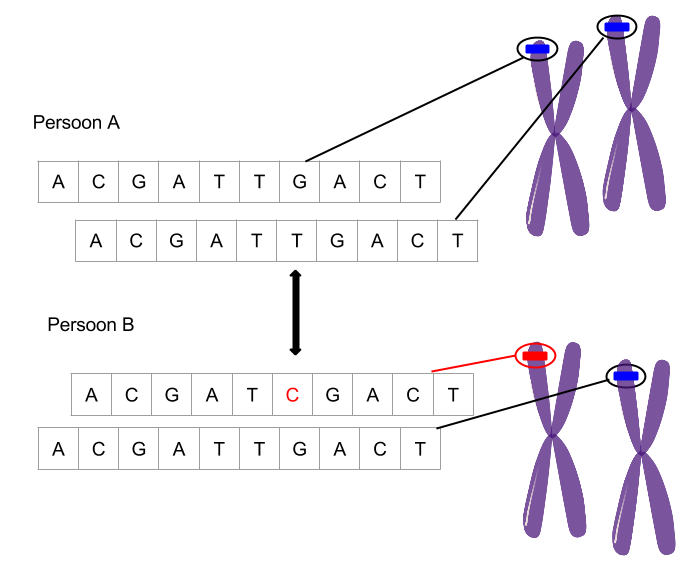
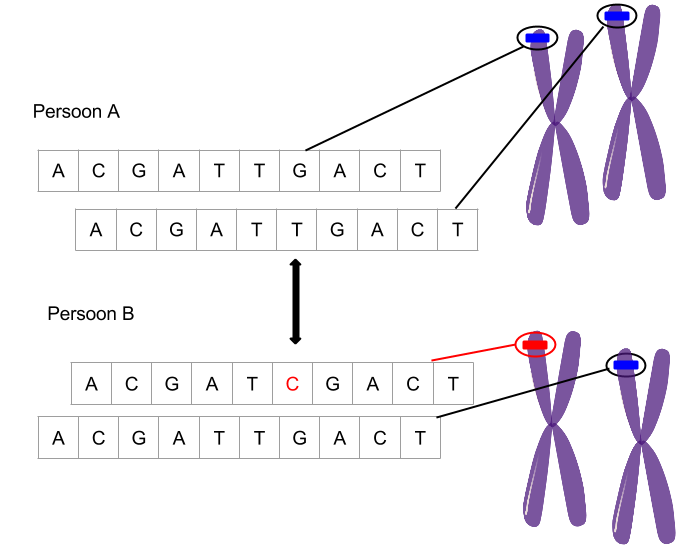
vb-vragen genoomanalyse

diff --git a/dna_intro.tex b/dna_intro.tex
@@ -3,6 +3,9 @@
 
 Omdat deze thesis binnen het vakgebied van de genoomanalyse ligt, volgt in dit hoofdstuk een beknopte inleiding in de wereld van DNA, genomen, genen en aanverwanten, met speciale aandacht voor het DNA van de mens.\\
 
+\section{Biologische achtergrond}
+\label{bio_intro}
+
 Desoxyribonucle\"inezuur, kortweg \textbf{DNA}, is de chemische stof die als belangrijkste drager van erfelijke informatie dient in alle levende wezens. DNA bestaat uit twee spiraalvormige, rond elkaar gewikkelde strengen, ook gekend als een dubbele helix. Die twee strengen zijn elk lange ketens van chemische bouwblokken, de nucleotiden, die op hun beurt elk opgebouwd zijn uit 3 delen: een fosfaatgroep, een suikergroep en \'e\'en van 4 mogelijke \textbf{nucleotidebasen}. De 4 nucleotidebasen zijn adenine (A), thymine (T), guanine (G) en cytosine (C). De twee strengen zijn aan elkaar gekoppeld door paren van die basen. Er komen slechts 2 verschillende baseparen voor: AT en GC \cite{genome_gov} \cite{nature_scitable}.\\
 
 Het \textbf{genoom} duidt op de volledige set DNA van een organisme. Het menselijk genoom bestaat uit 3 miljard baseparen. Het grootste deel van DNA bevindt zich in lichaamscellen in de vorm van \textbf{chromosomen}. Menselijke cellen bijvoorbeeld tellen 46 chromosomen, die in 23 paren voorkomen.\\
@@ -16,16 +19,31 @@ Een laatste essentieel biologisch concept is een \textbf{variant} of \textit{sin
 \item Homozygoot voor het alternatief allel zijn, wanneer het genotype bestaat uit 2x het alternatieve allel.
 \item Heterozygoot zijn, wanneer het genotype bestaat uit 1x het referentie-allel en 1x het alternatieve allel.
 \end{itemize}
-Variants zijn zeer belangrijk voor analyse van erfelijke aandoeningen: een nauwe overerving van zowel bepaalde variants als een bepaald fenotype kan de mogelijke locatie van een gen dat een aandoening veroorzaakt reduceren tot een regio op een chromosoom van slechts enkele gensequenties. Die kunnen dan nader onderzocht worden op hun structuur en functie om te bepalen welk gen verantwoordelijk is voor het gemuteerde fenotype. Relevante vragen voor biologen zijn dus welke variants voorkomen bij alle (of veel) individuen met eenzelfde fenotype, en nadien welke variants allemaal in dezelfde regio liggen op een chromosoom. Zoals later (zie \ref{gemini_beschrijving}) uitgebreid aan bod komt, biedt GEMINI ook queries om dit soort vragen te beantwoorden.\\
-
-\begin{figure}[!h]
-\includegraphics[width=\textwidth,keepaspectratio]{chrom_schema}
+\begin{figure}[!hb]
+\includegraphics[scale=0.5,keepaspectratio]{chrom_schema}
 \caption{Een sequentie uit het DNA van 2 personen. De sequentie ligt op dezelfde locatie op het chromosoom bij beide personen, maar verschilt 1 nucleotide tussen de twee personen. De sequentie is dus een \textit{single nucleotide polymorphism} of \textit{variant}. Beide personen hebben ook twee allelen voor de variant. Persoon A is homozygoot, persoon B heterozygoot \cite{chrom_clipart}.}
 \label{chrom_schema}
 \end{figure}
+Variants zijn zeer belangrijk voor analyse van erfelijke aandoeningen: een nauwe overerving van zowel bepaalde variants als een bepaald fenotype kan de mogelijke locatie van een gen dat een aandoening veroorzaakt reduceren tot een regio op een chromosoom van slechts enkele gensequenties. Die kunnen dan nader onderzocht worden op hun structuur en functie om te bepalen welk gen verantwoordelijk is voor het gemuteerde fenotype. Relevante vragen voor biologen zijn dus welke variants voorkomen bij alle (of veel) individuen met eenzelfde fenotype, en nadien welke variants allemaal in dezelfde regio liggen op een chromosoom. Zoals later (zie \ref{gemini_beschrijving}) uitgebreid aan bod komt, biedt GEMINI ook queries om dit soort vragen te beantwoorden.\\
+Figuur \ref{chrom_schema} toont een voorbeeld van de bovenstaande concepten.\\
 
-\textbf{DNA sequencing} is het bepalen van de exacte sequentie van nucleotidebasen in een streng DNA. De vandaag meest gebruikte sequencingmethode genereert reads van 125 opeenvolgende nucleotiden, en miljarden reads tegelijkertijd. Om de segmenten horende in \'e\'en langer stuk DNA aan elkaar te kunnen linken, is het nodig vele overlappende segmenten te lezen, die vervolgens met elkaar gealigneerd worden. Elke nucleotide moet dus meerdere keren gelezen worden om een goede accuraatheid van het uiteindelijke resultaat te bekomen. De \textbf{depth} van een nucleotide, of bij uitbreiding een groter stuk DNA, is het aantal keren dat een nucleotide gelezen werd tijdens het sequencingproces. De \textbf{coverage} is de gemiddelde depth over de hele DNA-streng die gesequenced werd en dus een maat voor de resolutie en accuraatheid van het sequencingproces. De uiteindelijke sequencedata worden vaak opgeslagen in SAM-files (of BAM, het binaire equivalent) en het is op basis hiervan dat \textbf{variant calling} gebeurt: het bepalen welk genotype een proefpersoon precies heeft voor een variant.\\
+\section{DNA sequencing}
+
+\textbf{DNA sequencing} is het bepalen van de exacte sequentie van nucleotidebasen in een streng DNA. De vandaag meest gebruikte sequencingmethode genereert reads van 125 opeenvolgende nucleotiden, en miljarden reads tegelijkertijd. Om de segmenten horende in \'e\'en langer stuk DNA aan elkaar te kunnen linken, is het nodig vele overlappende segmenten te lezen, die vervolgens met elkaar gealigneerd worden. Elke nucleotide moet dus meerdere keren gelezen worden om een goede accuraatheid van het uiteindelijke resultaat te bekomen. De \textbf{depth} van een nucleotide, of bij uitbreiding een groter stuk DNA, is het aantal keren dat een nucleotide gelezen werd tijdens het sequencingproces. De \textbf{coverage} is de gemiddelde depth over de hele DNA-streng die gesequenced werd en dus een maat voor de resolutie en nauwkeurigheid van het sequencingproces. De uiteindelijke sequencedata worden vaak opgeslagen in SAM-files (of BAM, het binaire equivalent) en het is op basis hiervan dat \textbf{variant calling} gebeurt: het bepalen welk genotype een proefpersoon precies heeft voor een variant.\\
 De resultaten van het variant-callingproces worden opgeslagen in \textbf{VCF}-bestanden (Variant Call Format). Het VCF-formaat bevat naast meta-informatie een lijn voor elke geobserveerde variant, met daarin optioneel informatie over het genotype van \'e\'en of meerdere proefpersonen.\\
-In onderzoek naar het DNA van proefpersonen is ook nog andere informatie van tel dan enkel hun genotypes: gegevens als het geslacht of fenotype van proefpersonen kunnen uiterst relevant zijn voor onderzoek naar bijvoorbeeld genetische ziektes. In experimenten die het DNA van meerdere proefpersonen analyseren, is het ook bijzonder interessant de onderlinge verwantschappen tussen de proefpersonen te kennen. Samen met de genotype-informatie is het dan mogelijk erfelijkheidspatronen in de genoomdata te bestuderen. Dergelijke gedetailleerde informatie over de proefpersonen zit echter niet in de VCF-files, maar kan gespecifieerd worden in zogenaamde pedigree-files (\textbf{PED}-files).\\\\
+In onderzoek naar het DNA van proefpersonen is ook nog andere informatie van tel dan enkel hun genotypes: gegevens als het geslacht of fenotype van proefpersonen kunnen uiterst relevant zijn voor onderzoek naar bijvoorbeeld genetische ziektes. In experimenten die het DNA van meerdere proefpersonen analyseren, is het ook bijzonder interessant de onderlinge verwantschappen tussen de proefpersonen te kennen. Samen met de genotype-informatie is het dan mogelijk erfelijkheidspatronen in de genoomdata te bestuderen. Informatie over de proefpersonen zit niet in VCF-files, maar kan gespecifieerd worden in pedigree-files (\textbf{PED}-files).\\\\
 
-{\color{red}TODO: Voorbeeld vragen biologen}
+\section{Voorbeeldvraagstukken genoomanalyse}
+
+Deze sectie schetst kort een voorbeeld van de soort analyses die biologen maken met behulp van tools zoals GEMINI, en de extra informatie die ze hiervoor nodig hebben.\\
+Biologen kunnen bijvoorbeeld ge\"interesseerd zijn in:
+\begin{itemize}
+\item Variants die gelinkt zijn met bepaalde aandoeningen. Van sommige variants is hun correlatie met erfelijke aandoeningen reeds bekend en die informatie kan in annotaties samengevat worden. Zo kent GEMINI bijvoorbeeld de volgende annotaties:
+\begin{itemize}
+\item \texttt{is\_somatic}: variants kunnen somatisch verworven mutaties zijn. Dit zijn mutaties die na de bevruchting optreden en later tot kanker of andere ziekten kunnen leiden.
+\item \texttt{clinvar\_disease\_name}: de naam van de aandoening waarvoor de variant relevant is.
+\end{itemize}
+\item Variants die vaak voorkomen in specifieke populaties. Zo kent GEMINI bijvoorbeeld de \texttt{aaf\_1kg\_afr}-annotatie, die de allel-frequentie (de frequentie waarmee een allel in een populatie voorkomt) in het genotype van proefpersonen van Afrikaanse origine uit het 1000 Genomes project voorstelt.
+\item Variants die op een bepaalde positie in het DNA liggen. Zoals aangehaald in \ref{bio_intro}, proberen biologen de oorzaak van aandoeningen te beperken tot een zo klein mogelijke regio in het DNA. Daarvoor is het nuttig te kunnen zoeken naar variants die op een specifiek chromosoom binnen een bepaald bereik van startposities liggen.
+\item Variants waarvoor bepaalde proefpersonen een bepaald genotype hebben. Zo kan het interessant zijn te zoeken naar variants die voorkomen in het DNA van proefpersonen met een aandoening (i.e. waarvoor die homozygoot zijn voor het referentie-allel), terwijl ze niet voorkomen in het DNA van gezonde personen. Dit kan kleinschalig gebeuren, door bijvoorbeeld de genotypes van een kind en zijn ouders te vergelijken, of op grotere schaal door een volledige populatie van proefpersonen te bestuderen.
+\end{itemize}

diff --git a/achtergrond_datastores.tex b/achtergrond_datastores.tex
@@ -4,7 +4,7 @@
 Sinds de jaren '70 zijn zogenaamde \textit{relational database management systems} (kortweg RDBMS) de voornaamste technologie voor de grootschalige opslag van gegevens. Ze zijn gestoeld op 2 belangrijke principes, namelijk het relationele datamodel \cite{codd1970relational} en de gestructureerde querytaal SEQUEL, beter gekend als SQL \cite{chamberlin1974sequel}. De architectuur van vele RDBMS is nog steeds gebaseerd op de eerste implementatie van een dergelijk systeem, namelijk het IBM onderzoeksproject System R \cite{blasgen1981system}, ook uit halverwege de jaren '70 \cite{Stonebraker:2007:EAE:1325851.1325981}. System R is uiteraard ontworpen voor destijds relevante hardwarekarakteristieken en productvereisten: business data processing via een command line interface, en dit op computersystemen met trage processoren, kleine werk- en schijfgeheugens maar relatief grote bandbreedte tussen de schijfopslag en het werkgeheugen. Dit leidde tot een aantal architecturale features die nog steeds terug te vinden zijn in hedendaagse RDBMS:
 \begin{itemize}
 \item Disk-geori\"enteerde opslag- en indexstructuren
-\item Multithreading om latency te verbergen
+\item Multithreading om latency op te vangen
 \item Concurrency-controlemechanismen op basis van locking
 \item Log-gebaseerd herstel van fouten
 \end{itemize} 
